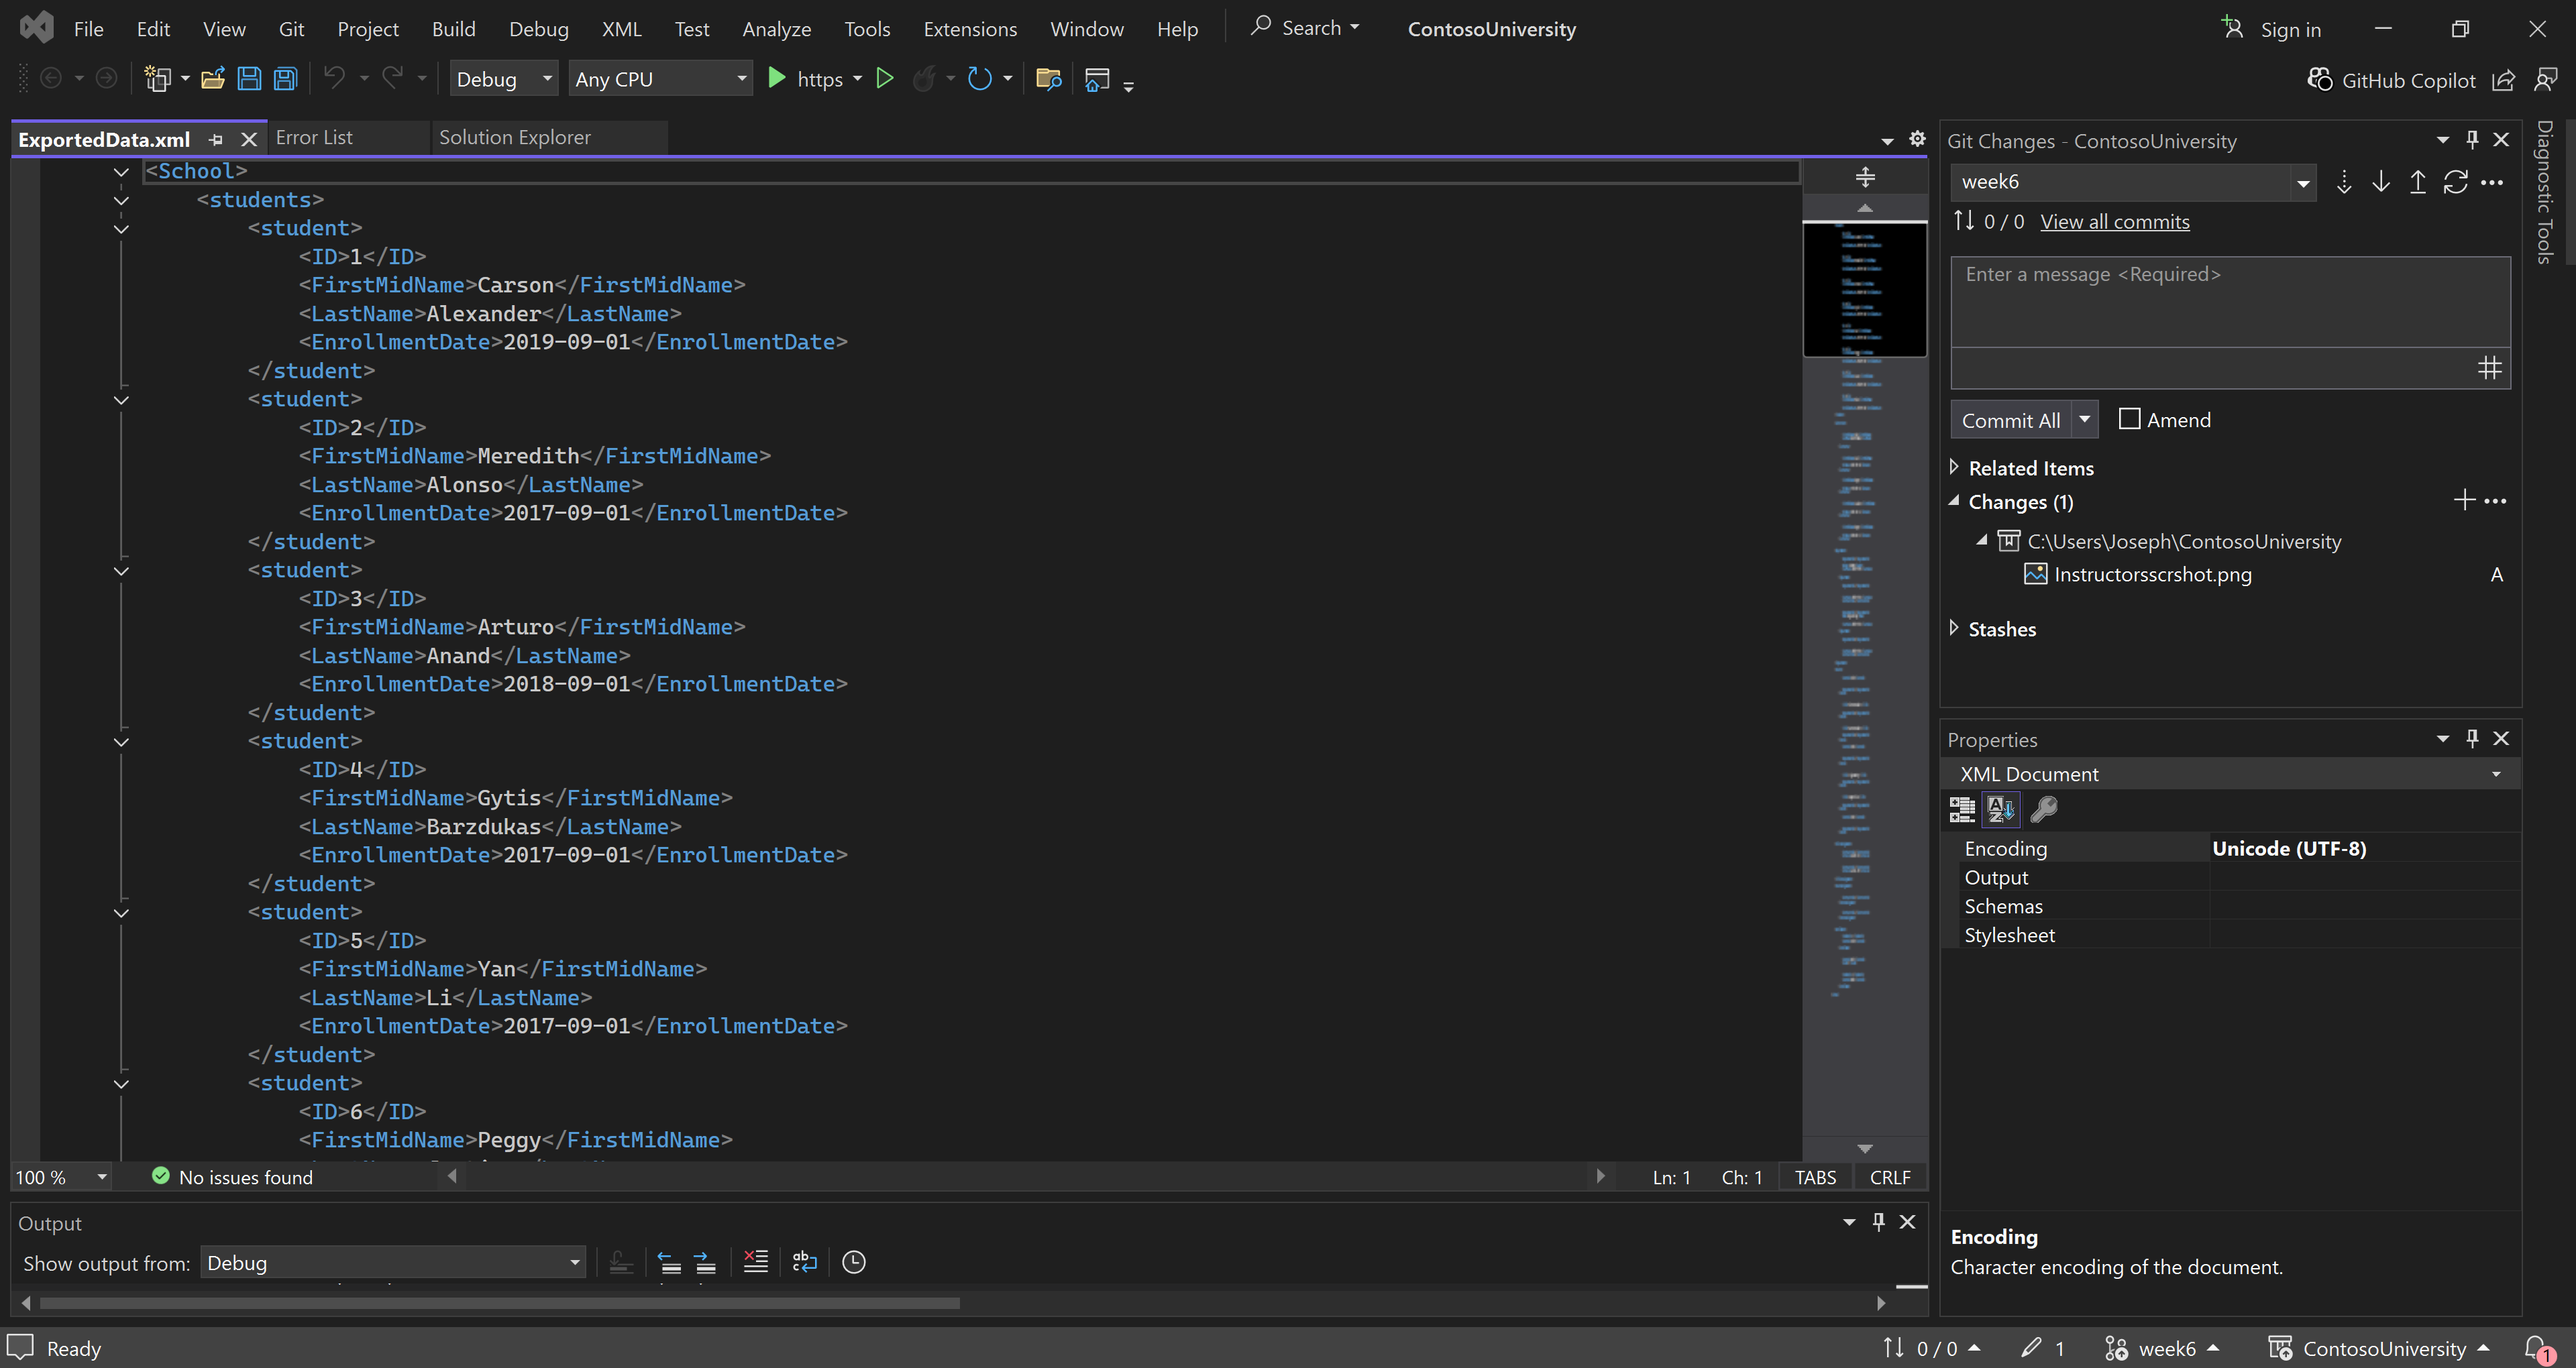
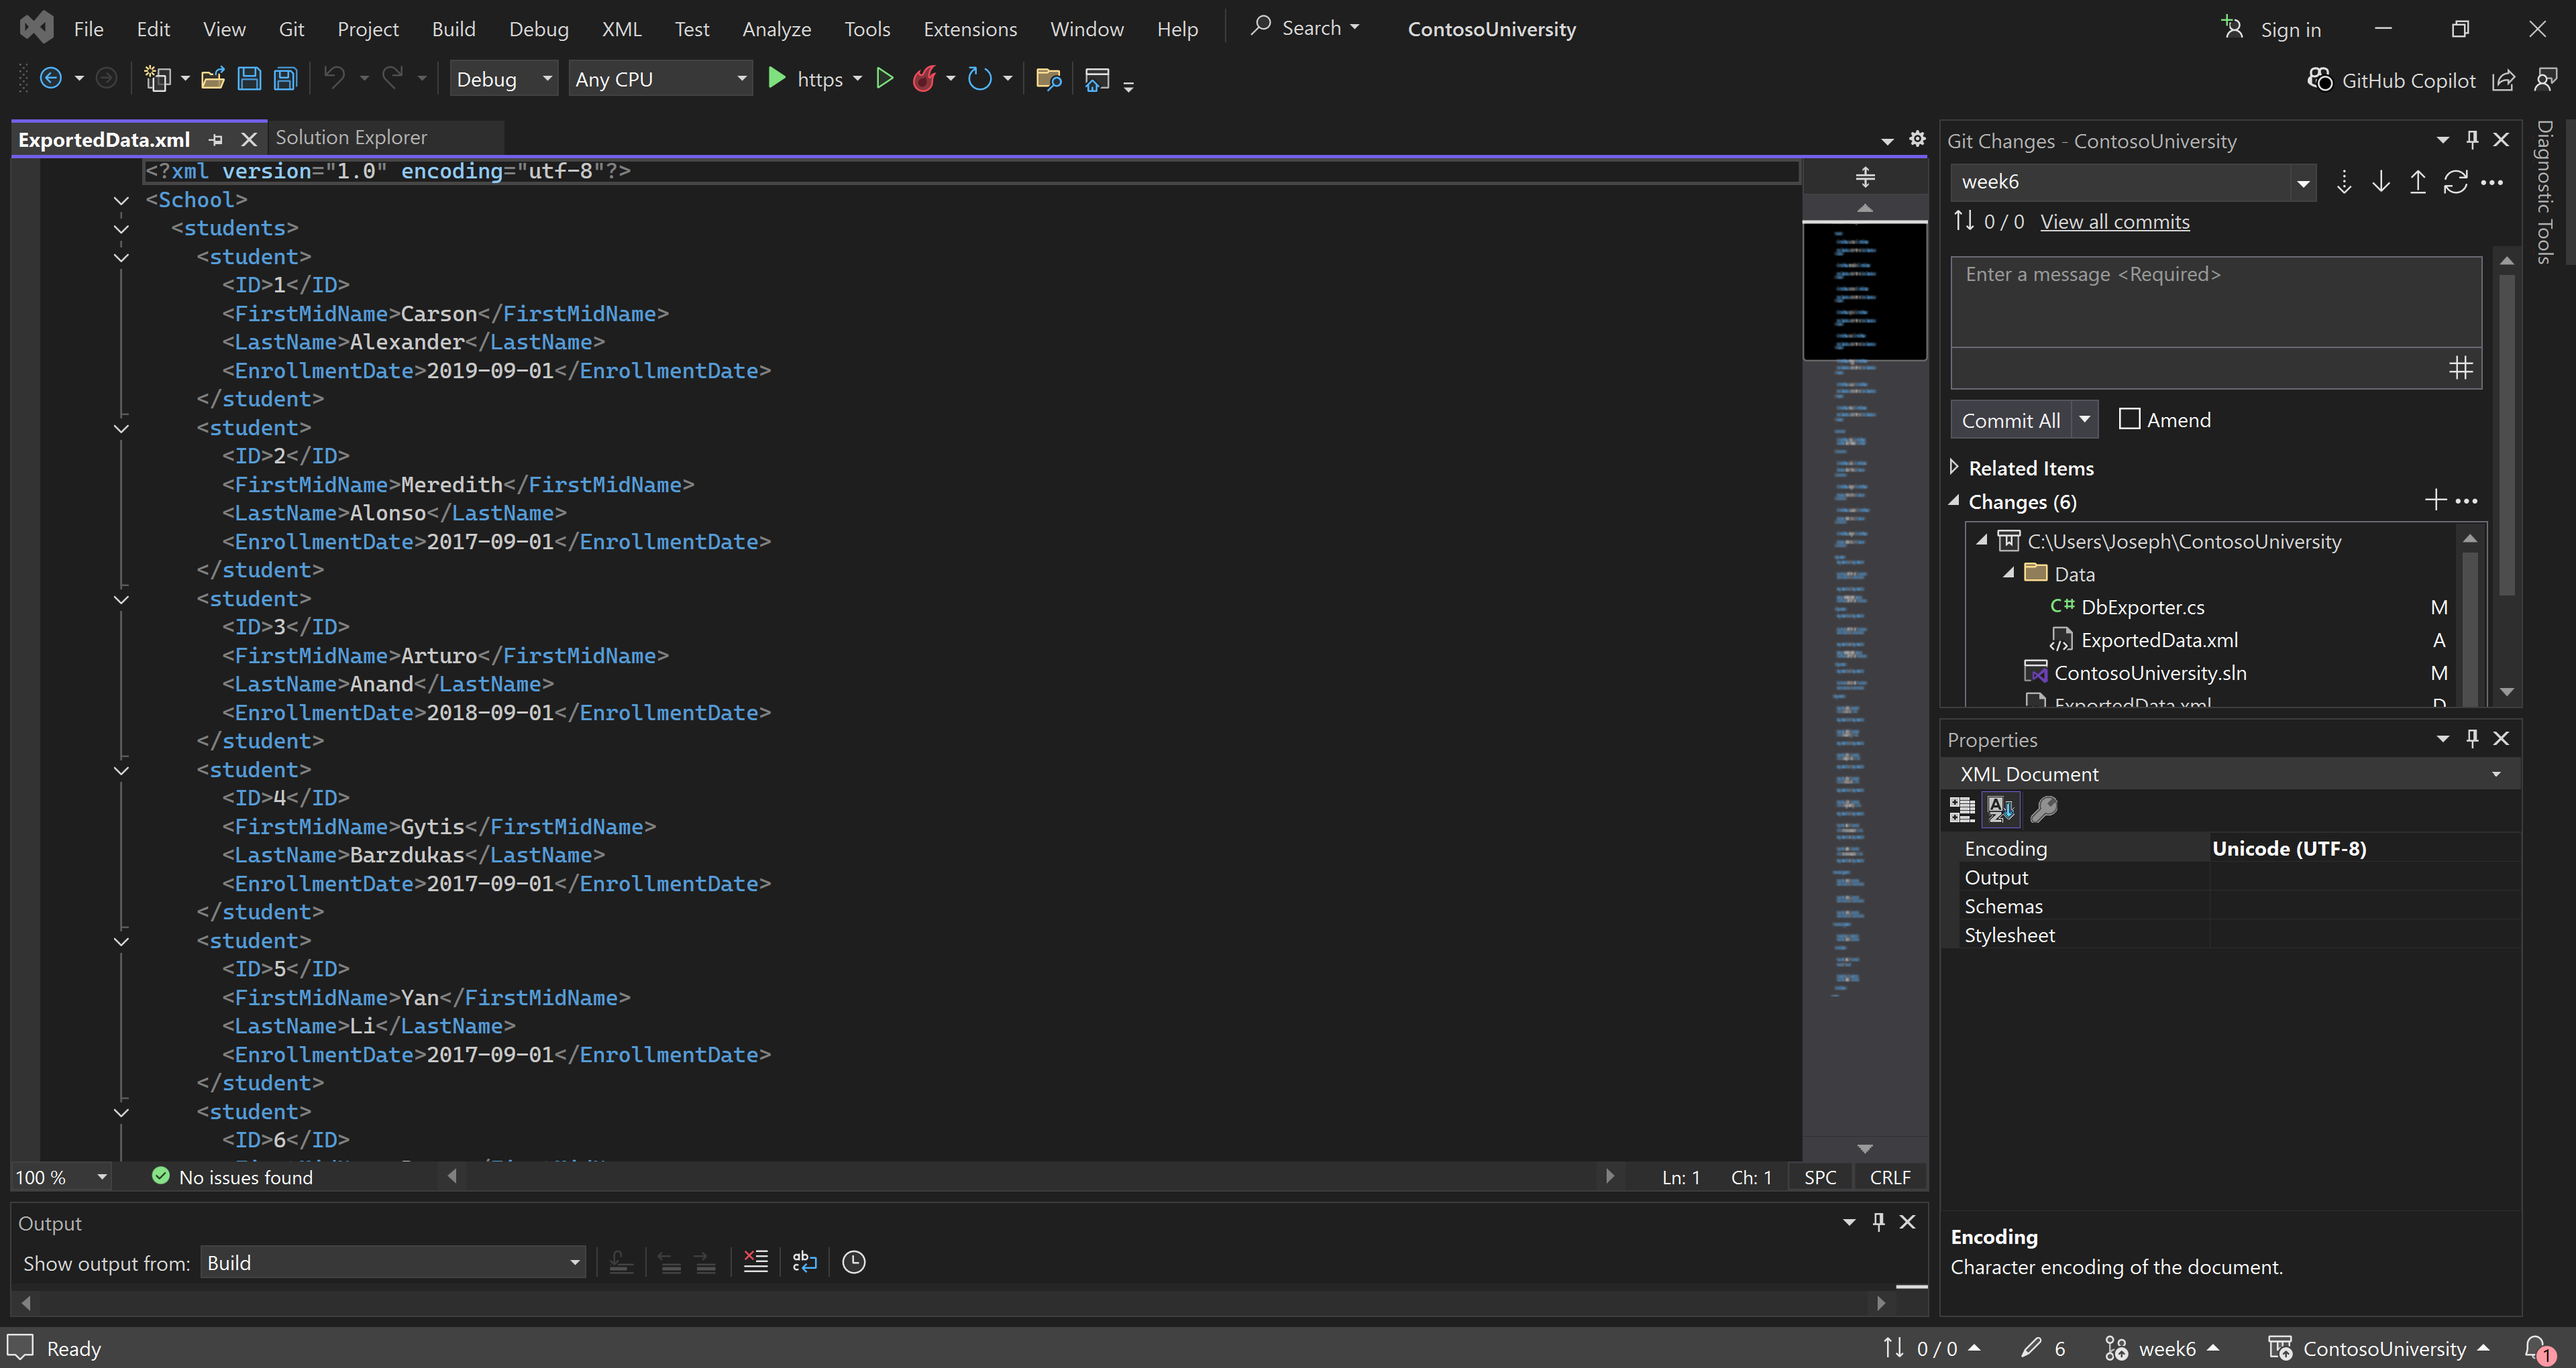
Week6 Working with screenshots

diff --git a/Data/DbExporter.cs b/Data/DbExporter.cs
@@ -1,5 +1,3 @@
-using System;
-using System.IO;
 using System.Linq;
 using System.Xml.Linq;
 using ContosoUniversity.Models;
@@ -10,42 +8,116 @@ namespace ContosoUniversity.Data
     {
         public static void ExportToXml(SchoolContext context, string outputFile)
         {
-            if (context == null)
-                throw new ArgumentNullException(nameof(context));
+            var studentData = context.Students.Select(s => new
+            {
+                s.ID,
+                s.FirstMidName,
+                s.LastName,
+                s.EnrollmentDate
+            }).ToList();
 
-            if (string.IsNullOrWhiteSpace(outputFile))
-                throw new ArgumentNullException(nameof(outputFile));
-
-            // Define XName constants outside the query
-            XName studentsTag = "Students";
-            XName studentTag = "Student";
-            XName firstNameTag = "FirstName";
-            XName lastNameTag = "LastName";
-            XName enrollmentDateTag = "EnrollmentDate";
-
-            // Load data from database first to avoid client-side constant issues
-            var studentList = context.Students
-                .Select(s => new
-                {
-                    s.FirstMidName,   // <-- use FirstMidName instead of FirstName
-                    s.LastName,
-                    s.EnrollmentDate
-                })
-                .ToList(); // Materialize the query
-
-            // Create XML
-            var xml = new XElement(studentsTag,
-                studentList.Select(s =>
-                    new XElement(studentTag,
-                        new XElement(firstNameTag, s.FirstMidName ?? ""), // handle nulls
-                        new XElement(lastNameTag, s.LastName ?? ""),
-                        new XElement(enrollmentDateTag, s.EnrollmentDate.ToString("yyyy-MM-dd"))
-                    )
+            var studentElements = studentData.Select(s =>
+                new XElement("student",
+                    new XElement("ID", s.ID),
+                    new XElement("FirstMidName", s.FirstMidName),
+                    new XElement("LastName", s.LastName),
+                    new XElement("EnrollmentDate", s.EnrollmentDate.ToString("yyyy-MM-dd"))
                 )
             );
 
-            // Save to file
-            xml.Save(outputFile);
+            var instructorData = context.Instructors.Select(i => new
+            {
+                i.ID,
+                i.FirstMidName,
+                i.LastName,
+                i.HireDate
+            }).ToList();
+
+            var instructorElements = instructorData.Select(i =>
+                new XElement("instructor",
+                    new XElement("ID", i.ID),
+                    new XElement("FirstMidName", i.FirstMidName),
+                    new XElement("LastName", i.LastName),
+                    new XElement("HireDate", i.HireDate.ToString("yyyy-MM-dd"))
+                )
+            );
+
+            var departmentData = context.Departments.Select(d => new
+            {
+                d.DepartmentID,
+                d.Name,
+                d.Budget,
+                d.StartDate,
+                d.InstructorID
+            }).ToList();
+
+            var departmentElements = departmentData.Select(d =>
+                new XElement("department",
+                    new XElement("DepartmentID", d.DepartmentID),
+                    new XElement("Name", d.Name),
+                    new XElement("Budget", d.Budget),
+                    new XElement("StartDate", d.StartDate.ToString("yyyy-MM-dd")),
+                    d.InstructorID.HasValue ? new XElement("InstructorID", d.InstructorID) : null
+                )
+            );
+
+            var courseData = context.Courses.Select(c => new
+            {
+                c.CourseID,
+                c.Title,
+                c.Credits,
+                c.DepartmentID
+            }).ToList();
+
+            var courseElements = courseData.Select(c =>
+                new XElement("course",
+                    new XElement("CourseID", c.CourseID),
+                    new XElement("Title", c.Title),
+                    new XElement("Credits", c.Credits),
+                    new XElement("DepartmentID", c.DepartmentID)
+                )
+            );
+
+            var courseAssignmentData = context.CourseAssignments.Select(ca => new
+            {
+                ca.CourseID,
+                ca.InstructorID
+            }).ToList();
+
+            var courseAssignmentElements = courseAssignmentData.Select(ca =>
+                new XElement("courseAssignment",
+                    new XElement("CourseID", ca.CourseID),
+                    new XElement("InstructorID", ca.InstructorID)
+                )
+            );
+
+            var enrollmentData = context.Enrollments.Select(e => new
+            {
+                e.StudentID,
+                e.CourseID,
+                e.Grade
+            }).ToList();
+
+            var enrollmentElements = enrollmentData.Select(e =>
+                new XElement("enrollment",
+                    new XElement("StudentID", e.StudentID),
+                    new XElement("CourseID", e.CourseID),
+                    e.Grade.HasValue ? new XElement("Grade", e.Grade.ToString()) : null
+                )
+            );
+
+            XDocument exportDoc = new XDocument(
+                new XElement("School",
+                    new XElement("students", studentElements),
+                    new XElement("instructors", instructorElements),
+                    new XElement("departments", departmentElements),
+                    new XElement("courses", courseElements),
+                    new XElement("courseAssignments", courseAssignmentElements),
+                    new XElement("enrollments", enrollmentElements)
+                )
+            );
+
+            exportDoc.Save(outputFile);
         }
     }
 }

diff --git a/Program.cs b/Program.cs
@@ -19,7 +19,7 @@ using (var scope = app.Services.CreateScope())
     {
         var context = services.GetRequiredService<SchoolContext>();
         DbInitializer.Initialize(context);
-        DbExporter.ExportToXml(context, "ExportedData.xml");
+        DbExporter.ExportToXml(context, "Data/ExportedData.xml");
     }
     catch (Exception ex)
     {
